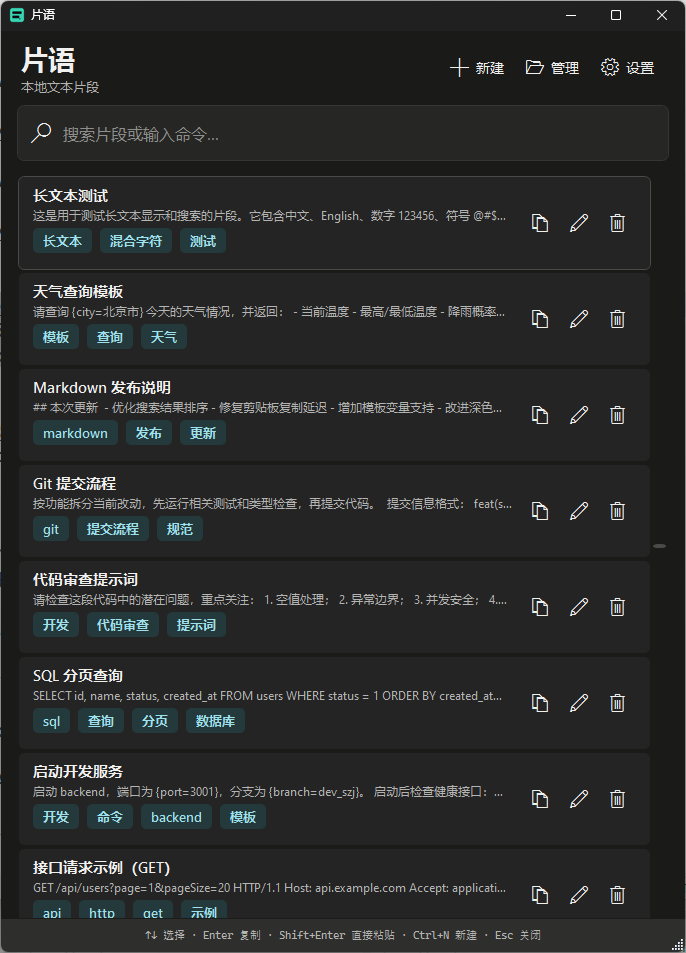
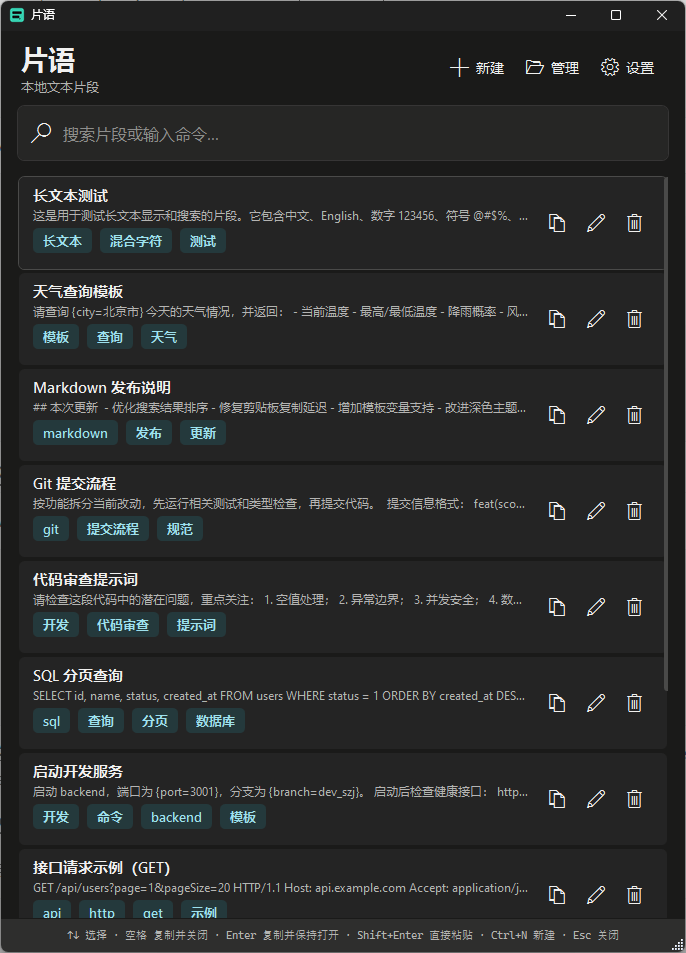
docs(project): 同步最新界面与使用说明
- 更新中英文 README 的快捷键和界面说明
- 刷新主面板设计图以匹配当前版本

diff --git a/README.en.md b/README.en.md
@@ -26,7 +26,7 @@ Download the latest `pianyu.exe` from [Releases](https://github.com/bigsu/pianyu
 - Pinyin initials, typo tolerance, common abbreviations, and learned personal aliases.
 - Dynamic ranking using relevance, recency, copy count, favorites, pins, and foreground-app context.
 - Parameterized templates such as `{port=3001}` with recent values.
-- `Enter` to copy and close, `Shift+Enter` to paste directly, and `Ctrl+Enter` to copy while keeping the panel open.
+- `Space` to copy and close, `Enter` to copy while keeping the panel open, and `Shift+Enter` to paste directly.
 - Explicit clipboard capture and time-limited monitoring; candidates are never saved without confirmation.
 - Configurable shortcuts with conflict detection and restore-default support.
 - Dark, light, and system-following themes.
@@ -39,9 +39,9 @@ Download the latest `pianyu.exe` from [Releases](https://github.com/bigsu/pianyu
 | --- | --- |
 | Show/hide Pianyu | `Ctrl+Alt+Space` |
 | Save current clipboard | `Ctrl+Alt+S` |
-| Copy and close | `Enter` |
+| Copy and close | `Space` |
 | Paste directly | `Shift+Enter` |
-| Copy and keep open | `Ctrl+Enter` |
+| Copy and keep open | `Enter` |
 | New snippet | `Ctrl+N` |
 | Edit snippet | `Ctrl+E` |
 | Delete snippet | `Delete` |

diff --git a/README.md b/README.md
@@ -26,7 +26,7 @@
 - 拼音首字母、轻微输错、常见缩写和个人搜索别名。
 - 综合相关度、近期使用、复制次数、收藏、置顶和当前应用的动态排序。
 - `{port=3001}` 形式的参数化模板与最近变量值。
-- `Enter` 复制并关闭、`Shift+Enter` 直接粘贴、`Ctrl+Enter` 复制并保持打开。
+- `空格` 复制并关闭、`Enter` 复制并保持打开、`Shift+Enter` 直接粘贴。
 - 手动读取剪贴板，或主动开启限时监听；候选内容始终需要确认才会保存。
 - 所有快捷键均可录制、清除和恢复，冲突时保留原快捷键。
 - 深色、浅色、跟随系统三种主题。
@@ -39,9 +39,9 @@
 | --- | --- |
 | 显示/隐藏片语 | `Ctrl+Alt+Space` |
 | 保存当前剪贴板 | `Ctrl+Alt+S` |
-| 复制并关闭 | `Enter` |
+| 复制并关闭 | `空格` |
 | 直接粘贴 | `Shift+Enter` |
-| 复制并保持打开 | `Ctrl+Enter` |
+| 复制并保持打开 | `Enter` |
 | 新建片段 | `Ctrl+N` |
 | 编辑片段 | `Ctrl+E` |
 | 删除片段 | `Delete` |
